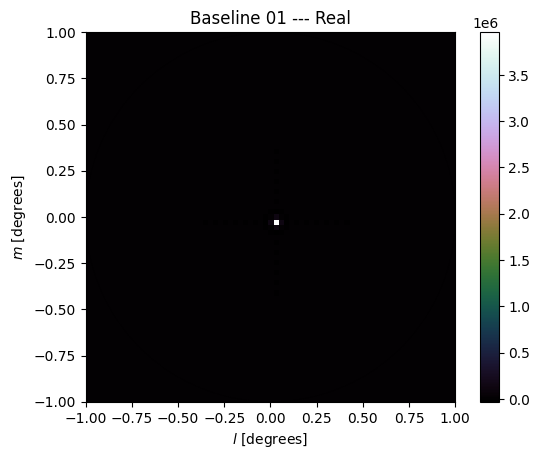
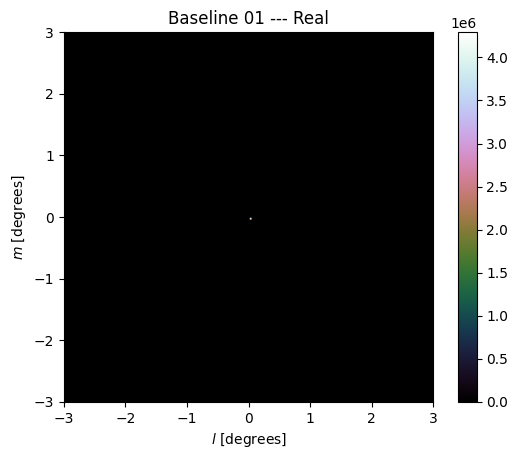
Updated code

diff --git a/EW-Array-Ghosts/EW_ghosts.py b/EW-Array-Ghosts/EW_ghosts.py
@@ -106,6 +106,21 @@ class T_ghost:
         elif type_plot == "GTR":
             vis = (g_pq) ** (-1) * r_pq
 
+        average_vis = []
+        if vis.shape[0] == 2:
+            average_vis = (vis[0] + vis[1]) / 2
+        else:
+            average_vis = vis[0]
+
+        x_val = np.linspace(-s_old * image_s, s_old *
+                            image_s, len(average_vis))
+
+        save = np.array([average_vis, x_val])
+        if kernel:
+            np.save("data/" + type_plot + "_vis_point", save)
+        else:
+            np.save("data/" + type_plot + "_vis_gauss", save)
+
         # if kernel:
         #     vis = vis * g_kernal
         vis = vis[:, ::-1]
@@ -138,13 +153,6 @@ class T_ghost:
             average = (zz_final[0] + zz_final[1]) / 2
         else:
             average = zz_final[0]
-
-        # print(type_plot)
-        # print(zz_final[0])
-        # print(zz_final[1])
-        # print(zz_final[0] + zz_final[1])
-        # print(average)
-        # print(zz_final.shape[0])
 
         x_val = np.linspace(-s_old * image_s, s_old * image_s, len(average))
 
@@ -320,7 +328,8 @@ class T_ghost:
 
                 # only works with 1 source
                 if len(cal_sky_model) == 1 and len(true_sky_model) == 1 and not kernel:
-                    g_pq_t[j, i] = EW_theoretical_derivation.derive_from_theory(true_sky_model[0][3], N, Phi, baseline[0], baseline[1], true_sky_model[0][0], u_m, v_m)[baseline[0], baseline[1]]
+                    g_pq_t[j, i] = EW_theoretical_derivation.derive_from_theory(
+                        true_sky_model[0][3], N, Phi, baseline[0], baseline[1], true_sky_model[0][0], u_m, v_m)[baseline[0], baseline[1]]
 
                 r_pq[j, i] = R[baseline[0], baseline[1]]
                 m_pq[j, i] = M[baseline[0], baseline[1]]
@@ -426,6 +435,7 @@ class T_ghost:
         )
 
         if len(cal_sky_model) == 1 and len(true_sky_model) == 1 and not kernel:
+            print("Using Theory Model")
             self.plot_image(
                 "G_theory",
                 kernel,
@@ -489,7 +499,7 @@ if __name__ == "__main__":
 
     baseline = np.array(args.baseline)
     phi = np.array([[0, 3, 5], [-3, 0, 2], [-5, -2, 0]])
-    image_s = 1
+    image_s = 3
     s = 1
     resolution = 100
 
@@ -698,7 +708,7 @@ if __name__ == "__main__":
         t.extrapolation_function(
             baseline=baseline,
             true_sky_model=np.array([[1, 0, 0, 0.1]]),
-            cal_sky_model=np.array([[0.5, 0, 0]]),
+            cal_sky_model=np.array([[1, 0, 0]]),
             Phi=phi,
             image_s=image_s,
             s=s,
@@ -731,5 +741,5 @@ if __name__ == "__main__":
                                  s=s,
                                  resolution=resolution,
                                  kernel=False)
-        
+
     print()

diff --git a/EW-Array-Ghosts/plotNumpy.py b/EW-Array-Ghosts/plotNumpy.py
@@ -2,28 +2,28 @@ import numpy as np
 import matplotlib.pyplot as plt
 
 
-def plot_and_save(gauss, point, label):
+def plot_and_save(gauss, point, label, label1="Gaussian", label2="Point"):
     fig, (ax1, ax2) = plt.subplots(1, 2)
     fig.suptitle(label)
     ax1.plot(gauss[1], gauss[0])
-    ax1.set_title("Gaussian")
+    ax1.set_title(label1)
     ax2.plot(point[1], point[0])
-    ax2.set_title("Point")
+    ax2.set_title(label2)
 
     plt.savefig("vs_graphs/" + label + ".png")
 
     plt.clf()
     plt.cla()
 
-def plot_and_save_triple(gauss, point, theory, label):
+def plot_and_save_triple(gauss, point, theory, label, label1="Gaussian", label2="Point", label3="Theory"):
     fig, (ax1, ax2, ax3) = plt.subplots(1, 3)
     fig.suptitle(label)
     ax1.plot(gauss[1], gauss[0])
-    ax1.set_title("Gaussian")
+    ax1.set_title(label1)
     ax2.plot(point[1], point[0])
-    ax2.set_title("Point")
+    ax2.set_title(label2)
     ax3.plot(theory[1], theory[0])
-    ax3.set_title("Theory")
+    ax3.set_title(label3)
     
     plt.savefig("vs_graphs/" + label + ".png")
 
@@ -53,4 +53,12 @@ if os.path.isfile('data\G_theory_gauss.npy') and os.path.isfile("data\GT_theory_
     GT_theory = np.load("data\GT_theory_gauss.npy")
     plot_and_save_triple(G_gauss, G_point, G_theory, "G_theory")
     plot_and_save_triple(GT_gauss, GT_point, GT_theory, "GT_theory")
+
+if os.path.isfile('data\G_theory_vis_gauss.npy') and os.path.isfile("data\GT_theory_vis_gauss.npy"):
+    G_theory = np.load("data\G_theory_vis_gauss.npy")
+    GT_theory = np.load("data\GT_theory_vis_gauss.npy")
+    G_gauss = np.load("data\G_vis_gauss.npy")
+    GT_gauss = np.load("data\GT_vis_gauss.npy")
+    plot_and_save(G_gauss, G_theory, "G_vis_theory", "Gaussian", "Theory")
+    plot_and_save(GT_gauss, GT_theory, "GT_vis_theory", "Gaussian", "Theory")
 

diff --git a/EW-Array-Ghosts/EW_theoretical_derivation.py b/EW-Array-Ghosts/EW_theoretical_derivation.py
@@ -24,7 +24,7 @@ def derive_from_theory(sigma, N, phi, p, q, amplitude, u, v):
 	A = amplitude
 	B = 2 * (sigma ** 2) * np.pi
 
-	c_pq_0 = 1 / 2 + (A * B) / N
+	c_pq_0 = (A * B) / N
 	a_pq_0 = c_pq_0
 
 	g_pq = a_pq_0
